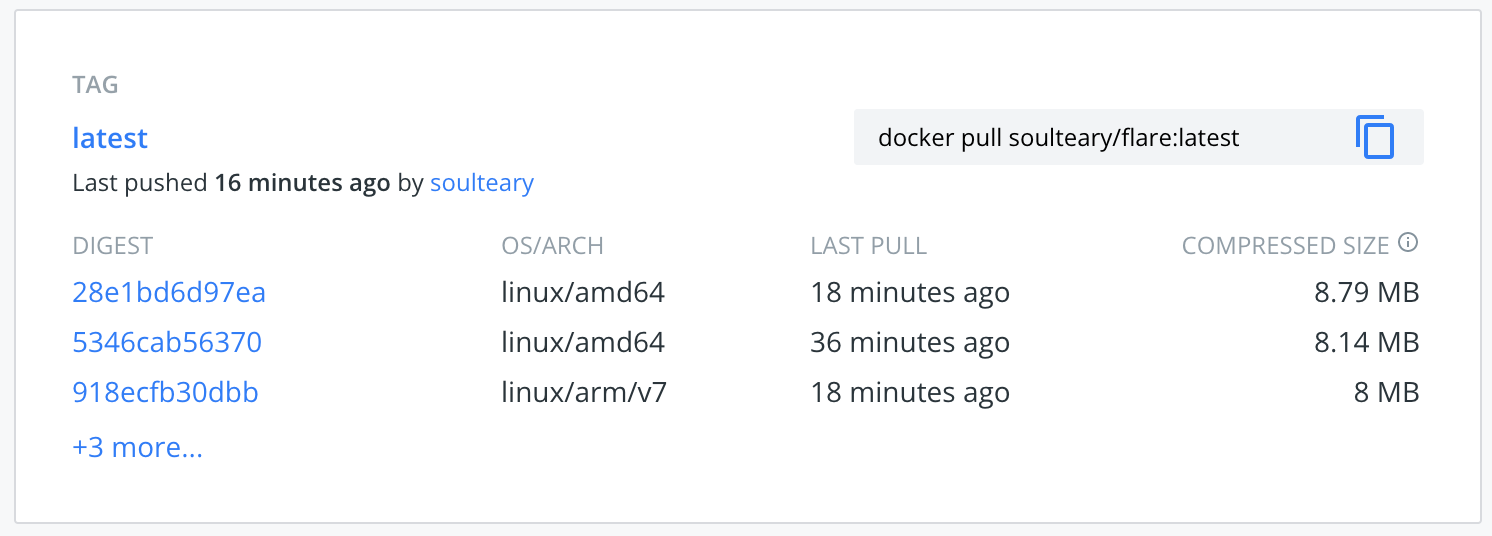
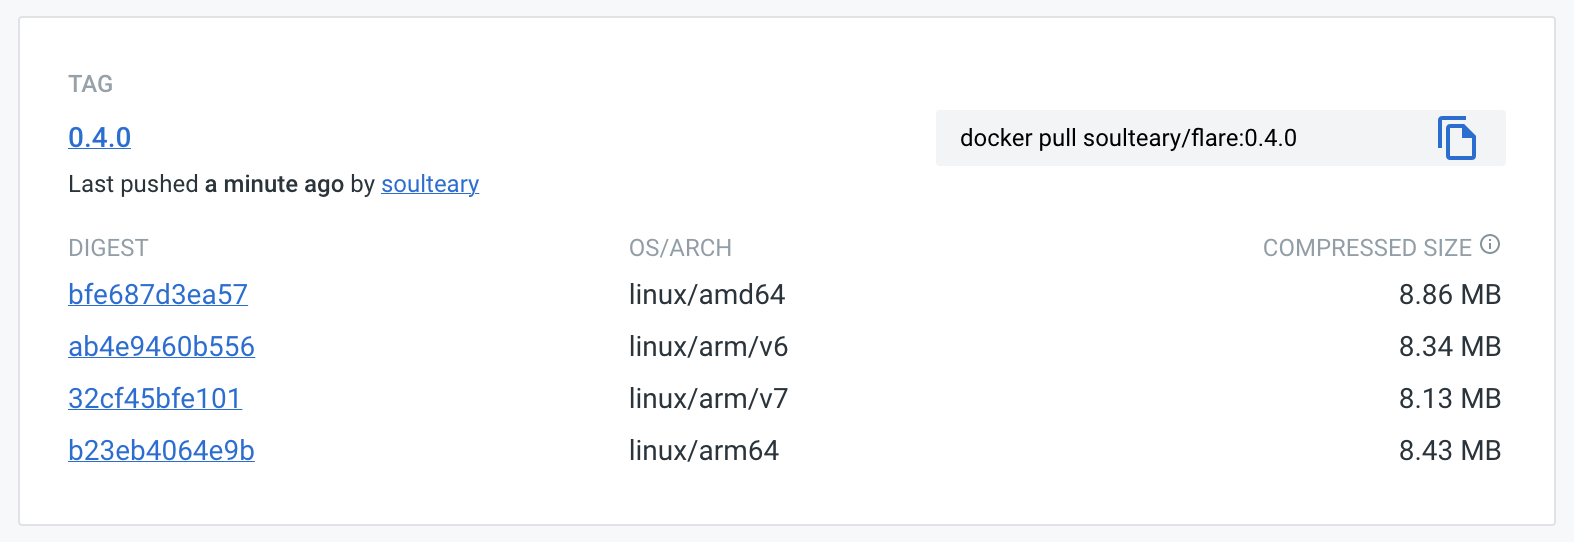
chore: update 0.4.0

diff --git a/docs/application-account.md b/docs/application-account.md
@@ -13,7 +13,7 @@ version: '3.6'
 
 services:
   flare:
-    image: soulteary/flare:0.3.1
+    image: soulteary/flare
     restart: always
     # 默认无需添加任何参数，如有特殊需求
     # 可阅读文档 https://github.com/soulteary/docker-flare/blob/main/docs/advanced-startup.md
@@ -33,17 +33,18 @@ services:
 
 更多示例，可以参考[示例文件夹](../example/)。
 
+在执行命令前，不妨执行 `docker pull soulteary/flare` 确认使用的应用镜像是新版本。
 
 当你使用 `docker-compose up -d` 启动应用之后，接着使用 `docker-compose ps`，就可以看到包含密码的日志输出啦：
 
 ```bash
-INFO[2022-02-23T10:34:18+08:00] Flare v0.3.1-85EED66 linux/amd64 BuildDate=2022-02-23T10:22:43+0800 
-INFO[2022-02-23T10:34:18+08:00]                                              
-INFO[2022-02-23T10:34:18+08:00] 程序服务端口 5005                                  
-INFO[2022-02-23T10:34:18+08:00] 页面请求合并 false                                 
-INFO[2022-02-23T10:34:18+08:00] 启用离线模式 false                                 
-INFO[2022-02-23T10:34:18+08:00] 已禁用登陆模式，用户可直接调整应用设置。                         
-INFO[2022-02-23T10:34:18+08:00] 在线编辑模块启用，可以访问 /editor 来获取程序使用帮助。             
-INFO[2022-02-23T10:34:18+08:00] 向导模块启用，可以访问 /guide 来获取程序使用帮助。                
-INFO[2022-02-23T10:34:18+08:00] 程序已启动完毕 🚀                             
+time="2022-09-17T20:54:22+08:00" level=info msg="Flare v0.4.0-9D209E38A3BC7637E14E0762EFC7E4BC8F39D03E linux/amd64 BuildDate=2022-09-17T12:42:33Z\n"
+time="2022-09-17T20:54:22+08:00" level=info
+time="2022-09-17T20:54:22+08:00" level=info msg="程序服务端口 5005"
+time="2022-09-17T20:54:22+08:00" level=info msg="页面请求合并 false"
+time="2022-09-17T20:54:22+08:00" level=info msg="启用离线模式 false"
+time="2022-09-17T20:54:22+08:00" level=info msg="已禁用登陆模式，用户可直接调整应用设置。"
+time="2022-09-17T20:54:22+08:00" level=info msg="在线编辑模块启用，可以访问 /editor 来进行数据编辑。"
+time="2022-09-17T20:54:22+08:00" level=info msg="向导模块启用，可以访问 /guide 来获取程序使用帮助。"
+time="2022-09-17T20:54:22+08:00" level=info msg="程序已启动完毕 🚀"
 ```

diff --git a/CHANGELOG.md b/CHANGELOG.md
@@ -4,6 +4,7 @@
 
 ## 目录
 
+* [0.4.0](#040---2022-09-17)
 * [0.3.3](#033---2022-03-10)
 * [0.3.2](#032---2022-02-23)
 * [0.3.1](#031---2022-02-23)
@@ -19,6 +20,19 @@
 * [0.2.0](#020---2022-01-30)
 * [0.1.0](#010---2022-01-27)
 
+
+# 0.4.0 - 2022-09-17
+
+- [新增] 支持关闭程序的 CSP 策略，允许用户自由选择添加“统计脚本”（如GA）。 https://github.com/soulteary/docker-flare/issues/72 （感谢 @onmpen 反馈问题）
+- [新增] 支持了新的架构 ARM32v6，现在程序可以跑在更多的设备上了。
+- [新增] 新增了 Linux 和 macOS 操作系统可以直接运行的程序。https://github.com/soulteary/flare/releases/tag/0.4.0 https://github.com/soulteary/docker-flare/issues/35 （感谢 @ToSeeAll 的提问）
+- [修正] 重新调整了登陆相关逻辑，确保各种浏览器都能够正确处理跳转逻辑。https://github.com/soulteary/docker-flare/issues/68 （感谢 @hzmabin 反馈问题）
+- [修正] 修正全站需要登陆的时候，不展示自定义页脚的问题。https://github.com/soulteary/docker-flare/issues/77 （感谢 @404gods 反馈问题）
+- [修正] 修正关闭组件时，不展示日期的问题。https://github.com/soulteary/docker-flare/issues/44 （感谢 @shuax 反馈问题）
+- [优化] 拆分和重构程序，进行部分功能调整和问题修正，提升项目质量，为接下来支持新功能做准备。 https://github.com/soulteary/flare/compare/v0.0.17...0.4.0
+- [优化] 改进构建方式，将构建迁至 GitHub Action，让构建更透明，大家用的更放心。🎉
+
+最后，感谢 @@JKnuts 在我不在的日子里，为其他同学解答问题♥
 
 # 0.3.3 - 2022-03-10
 

diff --git a/docs/advanced-startup.md b/docs/advanced-startup.md
@@ -30,9 +30,10 @@
 ## 命令行参数
 
 ```
-docker run --rm -it -p 5005:5005 -v `pwd`/app:/app soulteary/flare:0.3.1 flare -h
+docker run --rm -it -p 5005:5005 soulteary/flare:0.4.0 flare -h
+找不到配置文件config，创建默认配置。
 
-Flare v0.3.1-85EED66 linux/amd64 BuildDate=2022-02-23T10:22:43+0800
+Flare v0.4.0-9D209E38A3BC7637E14E0762EFC7E4BC8F39D03E linux/amd64 BuildDate=2022-09-17T12:42:33Z
 
 支持命令:
   -p, --port int            指定监听端口 (default 5005)
@@ -43,6 +44,7 @@ Flare v0.3.1-85EED66 linux/amd64 BuildDate=2022-02-23T10:22:43+0800
   -l, --disable_login       禁用账号登陆 (default true)
   -n, --enable_notice       启用废弃日志警告 (default true)
   -e, --enable_editor       启用编辑器 (default true)
+  -c, --disable_csp         禁用CSP
   -v, --version             显示应用版本号
   -h, --help                显示帮助
 ```

diff --git a/README.md b/README.md
@@ -8,9 +8,9 @@
 
 无任何数据库依赖，应用数据完全开放透明，100% 属于用户自己。
 
-支持在线编辑，内置 Material Design Icons 6k+ 图标，目前累计下载 1k+，期待你的反馈 :)
+支持在线编辑，内置 Material Design Icons 6k+ 图标，目前累计下载过万，期待你的反馈 :)
 
-支持 x86 以及常见的 ARM 设备，应用资源消耗非常低：
+支持 x86 以及常见的 ARM (ARM32v6、ARM32v7、ARM64v8)设备，应用资源消耗非常低：
 
 - CPU: < 1%
 - MEM: < 30M
